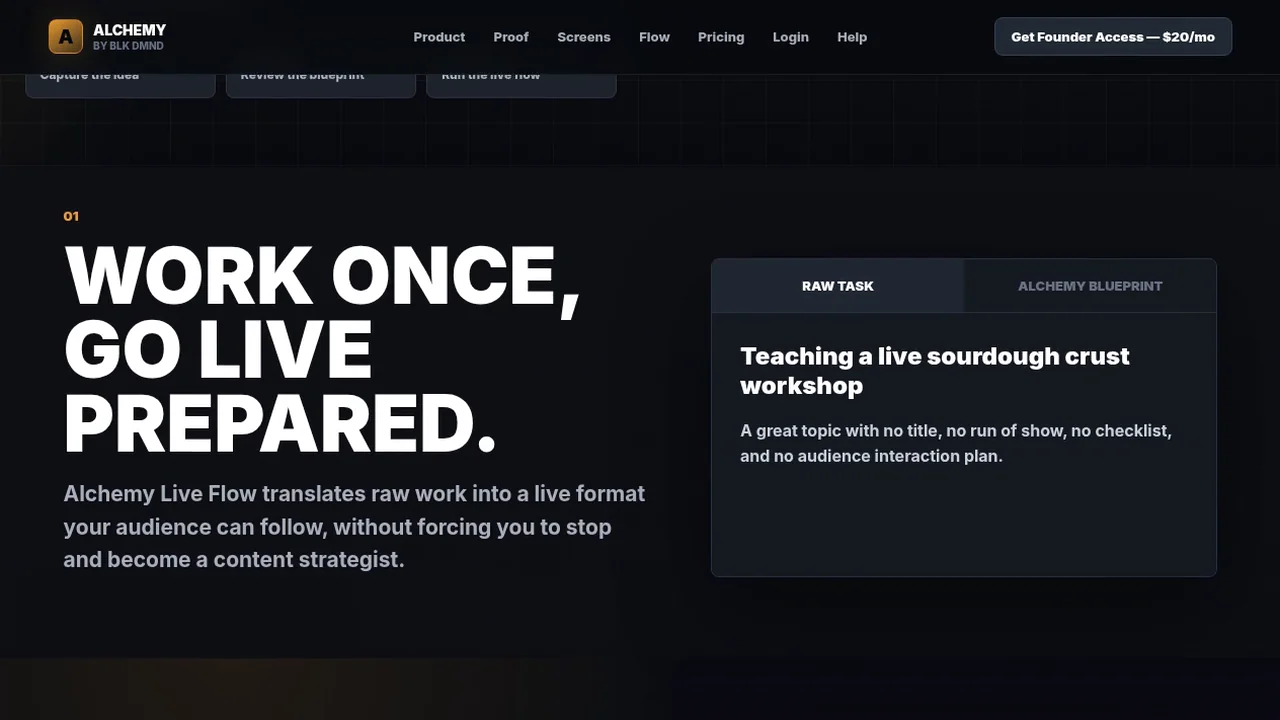
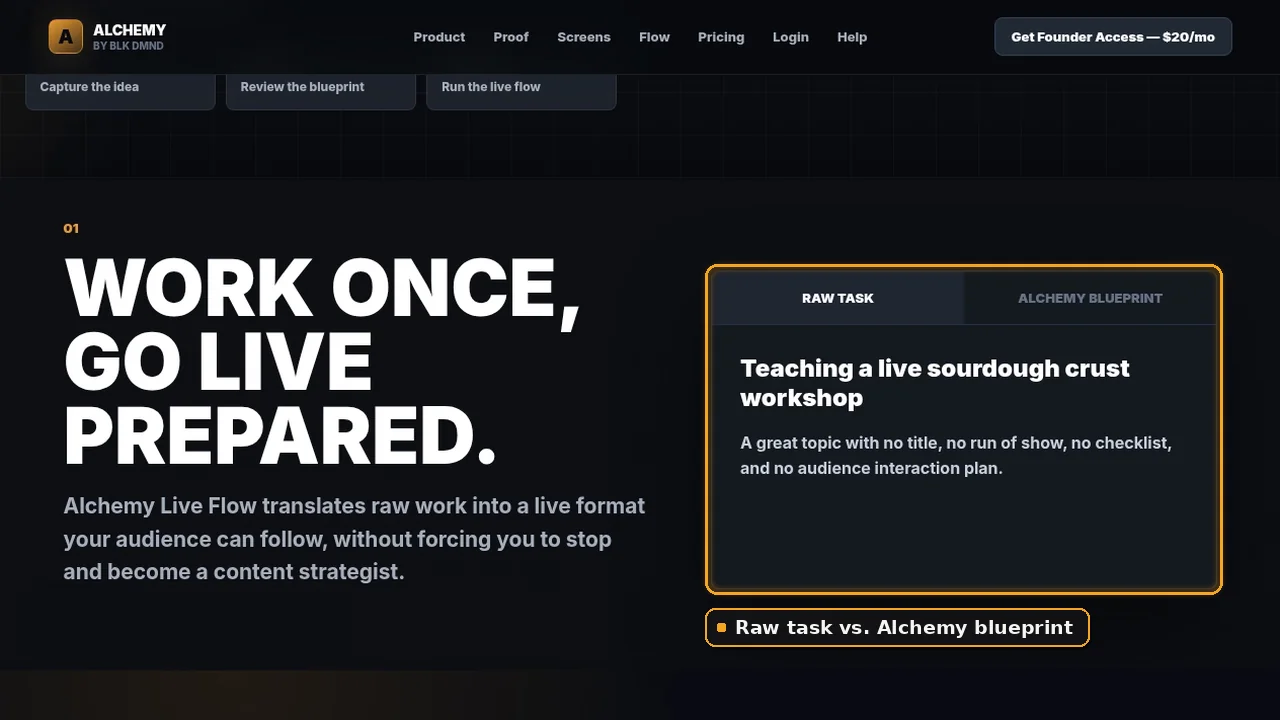
Swap in STUDIO's annotated Alchemy and EmpathMath stills.
The eight WebPs replace the frames extracted from the recordings. Filenames stay the ones in the README.

diff --git a/VERIFICATION.md b/VERIFICATION.md
@@ -77,7 +77,7 @@ The resume button is omitted because `RESUME_AVAILABLE` is false. No PDF was gen
 | `empathmath_demo.mp4` | 28.8 s | 3.18 MB |
 | `alchemy_public_tour.mp4` | 22.7 s | 2.24 MB |
 
-Both are H.264, 1280×720, no audio track. The eight WebP files named in the studio README were not in the upload folder (only the two MP4s and the README were). Posters and screenshots are frames from those recordings at the moments the README describes, encoded WebP quality 85 at 1280×720. Alt text and captions use the README wording. The Alchemy figure is labeled "Site tour · public pages only."
+Both are H.264, 1280×720, no audio track. The eight posters and screenshots are STUDIO's annotated WebPs, with the gold callout labels. They replaced the frames extracted from the MP4s. Filenames match the README (`empathmath_demo_poster.webp`, `empathmath_01_input.webp`, `empathmath_02_signal_map.webp`, `empathmath_03_evidence.webp`, `alchemy_public_tour_poster.webp`, `alchemy_01_hero.webp`, `alchemy_02_flow.webp`, `alchemy_03_pricing.webp`). Each is 1280×720. Alt text and captions use the README wording. The Alchemy figure is labeled "Site tour · public pages only."
 
 Each `<video>` has `controls`, `muted`, `playsinline` (React `playsInline`; the DOM property `playsInline` is true), `preload="none"`, a poster, and `width="1280"` `height="720"`. The six screenshots use `loading="lazy"` `decoding="async"` with the same width and height.
 
